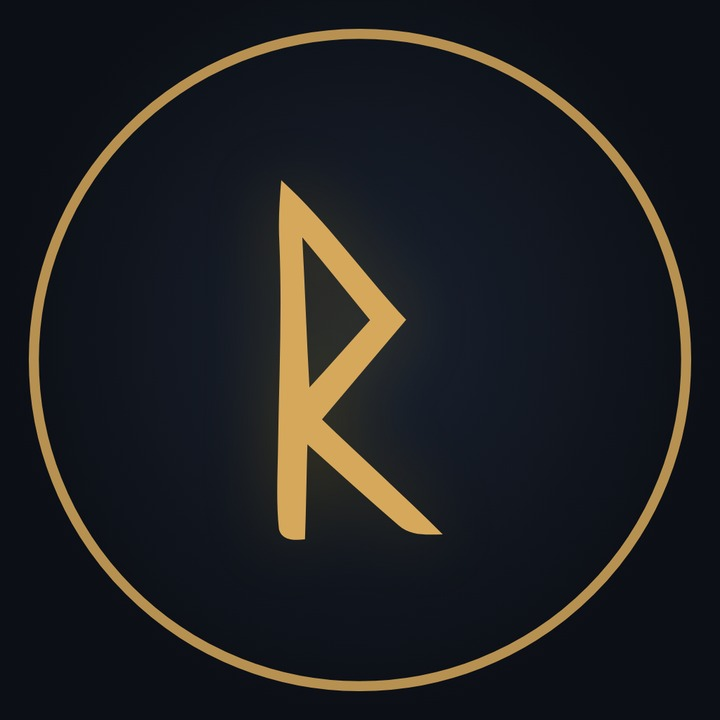
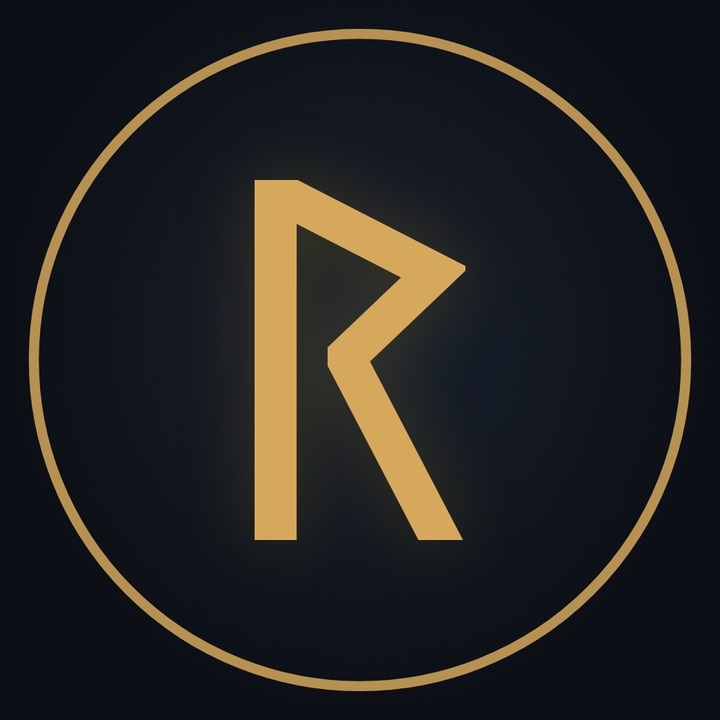
[web] Profilovka se zlatým R přegenerovaná s R ze značky appky (owner „tohle R bych chtěl“)
web/socialni/profil-r.jpg (do zásoby pro Instagram a Facebook) nesla R z kresby run, které owner 2026-11-01 nechtěl. Teď
ikona_appky.profil() kreslí znackaSvg z v2/runar-znacka.js — táž kresba jako R v appce. Ikona appky zůstala (DECISIONS
2026-11-01 (10)); popis v hlavičce web_socialni_obrazky.py podle toho.

Changed region(s): [[0.3361, 0.2444, 0.6417, 0.7639]]

diff --git a/scripts/web_socialni_obrazky.py b/scripts/web_socialni_obrazky.py
@@ -14,9 +14,10 @@
 #                    na ploše telefonu. Výřez uvnitř zaobleného čtverce (černý okraj ikony do kruhu nesmí, měřeno 11–15 px).
 #                    Výřezy z portrétů s holí owner zamítl (2026-10-28: „profilovka A a B má Rúnara s uříznutou holí… A je úplně mimo“) —
 #                    čtverec kolem obličeje hůl vždy přetne. Do profilovky proto jen záběr, kde Rúnar nic nedrží přes okraj.
-#   profil-r.jpg      720×720 — druhá profilovka do zásoby: zlaté R jako nová ikona appky (owner 2026-10-29 k otázce, zda profilovka
-#                    bude R, nebo tvář: „ještě nevím. připravíme to a rozhodnu se, až to budeme dělat“). Kreslí ji ikona_appky.profil()
-#                    — táž předloha jako ikona appky, rámeček je kruh u okraje, protože Instagram i Facebook profilovku ořízne do kruhu.
+#   profil-r.jpg      720×720 — druhá profilovka do zásoby: zlaté R ze značky appky (owner 2026-10-29 k otázce, zda profilovka
+#                    bude R, nebo tvář: „ještě nevím. připravíme to a rozhodnu se, až to budeme dělat“; R podle ownera 2026-11-01 „tohle R
+#                    bych chtěl“ — znackaSvg z v2/runar-znacka.js, táž kresba jako R v appce). Kreslí ji ikona_appky.profil(), rámeček
+#                    je kruh u okraje, protože Instagram i Facebook profilovku ořízne do kruhu. Ikona appky zůstala (DECISIONS 2026-11-01 (10)).
 #   python -X utf8 scripts/web_socialni_obrazky.py
 import base64, io, os, re, shutil, subprocess, sys, tempfile
 from PIL import Image
